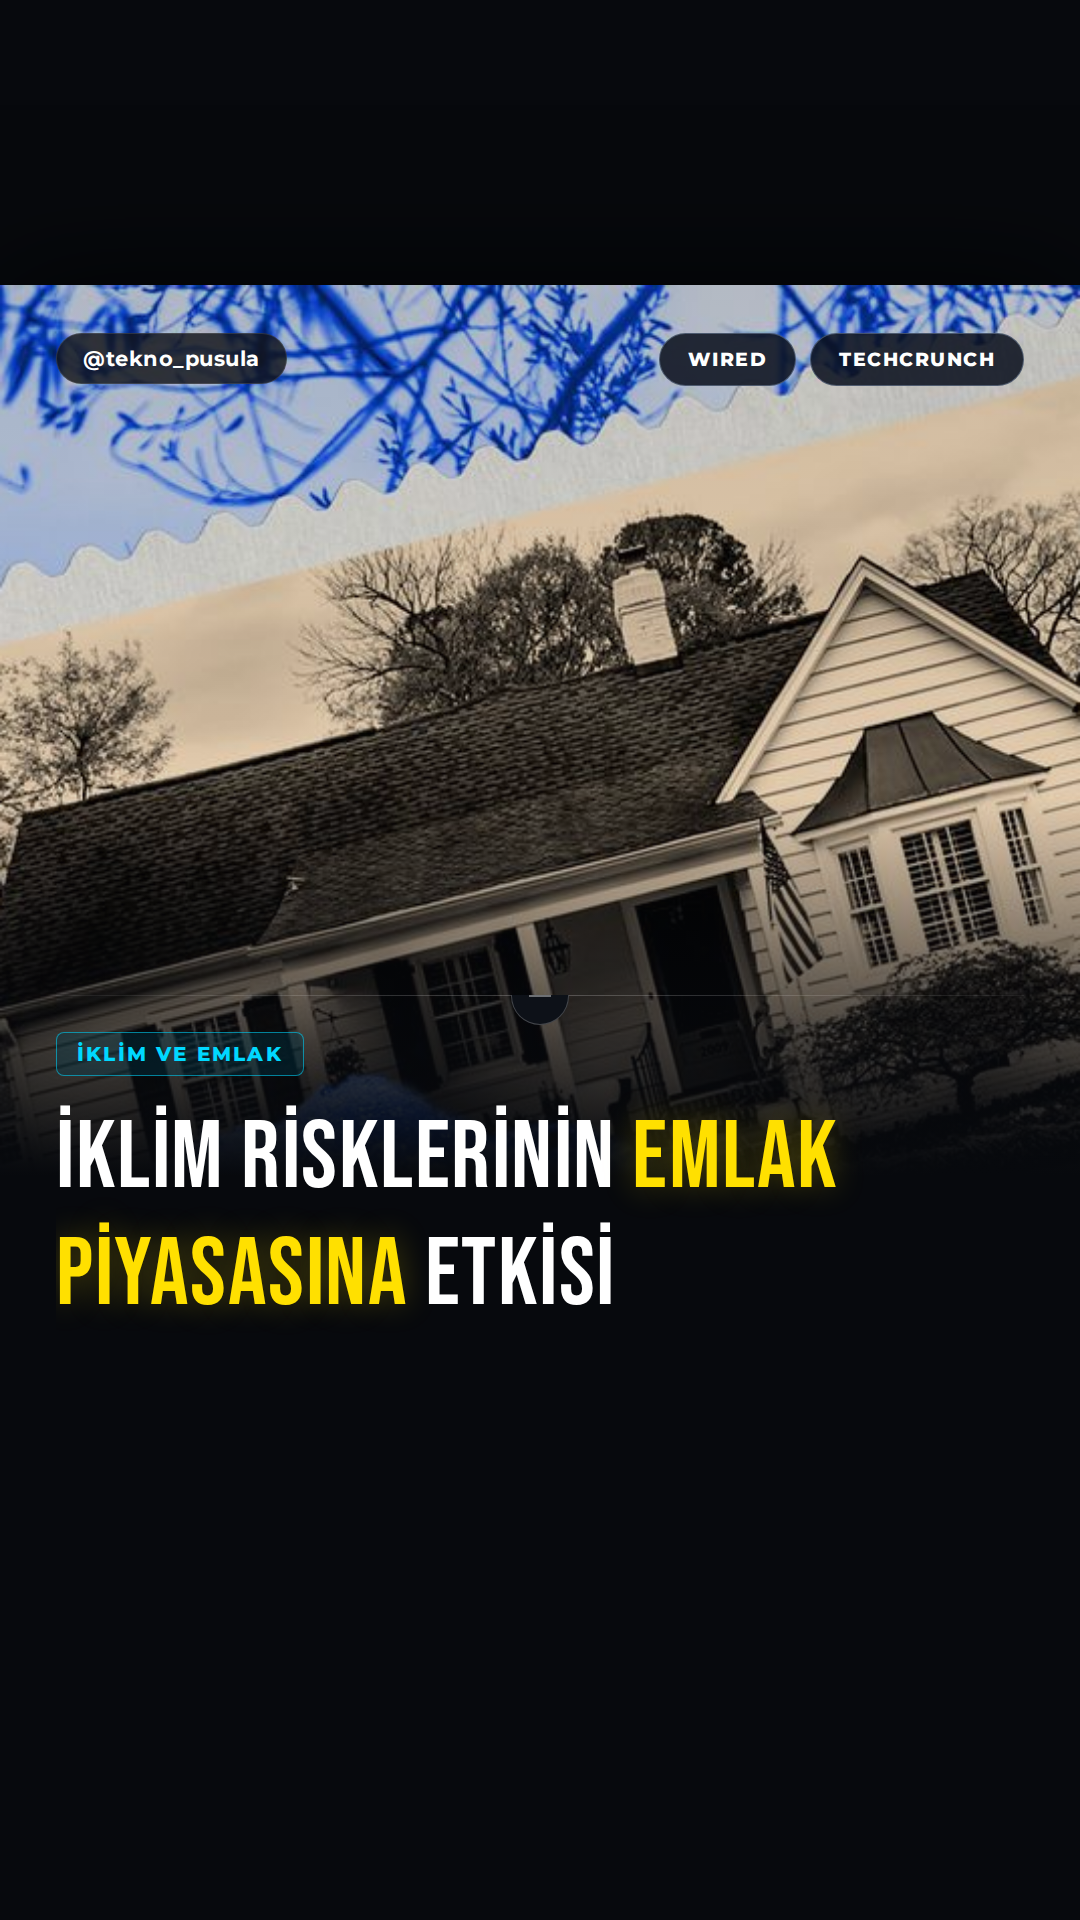
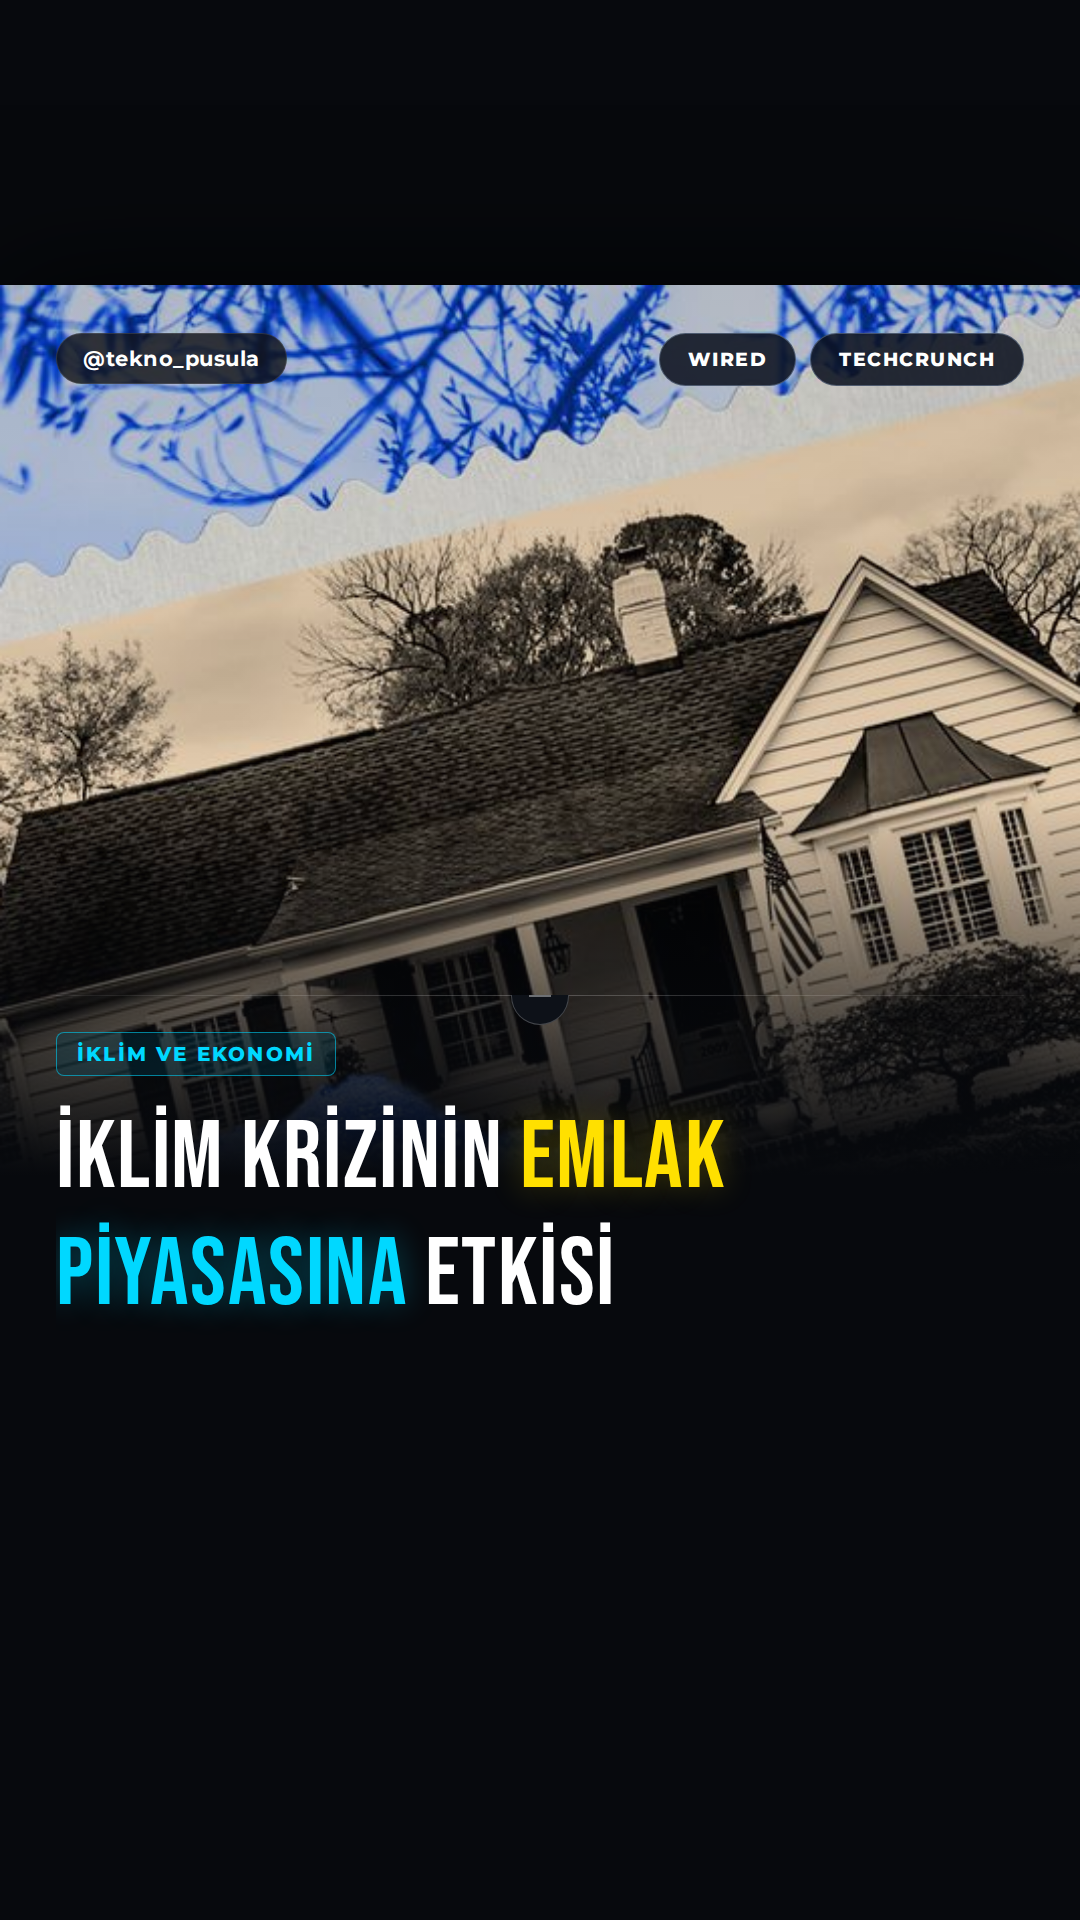
🤖 post: 2026-11-07 09:00 – The American Dream Wasn’t Built for Climate Change

Changed region(s): [[0.0306, 0.5312, 0.7944, 0.6875]]

diff --git a/output/2026-11-07/01-0900-the-american-dream-wasn-t-built-for-climate-chan/verification.md b/output/2026-11-07/01-0900-the-american-dream-wasn-t-built-for-climate-chan/verification.md
@@ -3,20 +3,20 @@
 **Haber:** The American Dream Wasn’t Built for Climate Change
 **Canonical URL:** https://www.wired.com/story/the-american-dream-wasnt-built-for-climate-change/
 **Kaynaklar:** Wired, TechCrunch, MIT Technology Review, Google Blog
-**Kontrol zamanı:** 2026-11-07T13:33:01+03:00
+**Kontrol zamanı:** 2026-11-07T13:37:14+03:00
 **Sonuç:** ✅ YAYINLANABİLİR
 
 ---
 
 ## İddia Bazlı Sonuçlar
 
-### 1. First Street, in a report called Property Prices in Peril, projected last year that climate risks could knock nearly 1.5 trillion dollars off the value of American homes by 2055.
+### 1. First Street, in a report called Property Prices in Peril, projected that climate risks could knock nearly $1.5 trillion off the value of American homes by 2055.
 - **Karar:** ✅ `supported`
 - **Kanıtlar:**
   - [https://www.wired.com/story/the-american-dream-wasnt-built-for-climate-change/](https://www.wired.com/story/the-american-dream-wasnt-built-for-climate-change/)
     > In a report called “Property Prices in Peril,” the firm First Street projected last year that climate risks could knock nearly $1.5 trillion off the value of American homes by 2055.
 
-### 2. According to polling for Grist from Data for Progress, 58 percent of likely U.S. voters believe that climate change will hinder their ability to achieve the American Dream over the next 20 years.
+### 2. Polling for Grist from Data for Progress shows that 58 percent of likely U.S. voters believe climate change will hinder their ability to achieve the American Dream over the next 20 years.
 - **Karar:** ✅ `supported`
 - **Kanıtlar:**
   - [https://www.wired.com/story/the-american-dream-wasnt-built-for-climate-change/](https://www.wired.com/story/the-american-dream-wasnt-built-for-climate-change/)
@@ -28,31 +28,31 @@
   - [https://www.wired.com/story/the-american-dream-wasnt-built-for-climate-change/](https://www.wired.com/story/the-american-dream-wasnt-built-for-climate-change/)
     > Those promises were shattered when almost 14 inches of rain fell on Asheville over three days in September 2024.
 
-### 4. In western North Carolina, more than 74,000 homes were damaged and only about 4 percent had flood insurance, resulting in 9.5 billion dollars in uninsured residential property losses.
+### 4. In western North Carolina, more than 74,000 homes were damaged and only about 4 percent had flood insurance, resulting in $9.5 billion in uninsured residential property losses.
 - **Karar:** ✅ `supported`
 - **Kanıtlar:**
   - [https://www.wired.com/story/the-american-dream-wasnt-built-for-climate-change/](https://www.wired.com/story/the-american-dream-wasnt-built-for-climate-change/)
     > In western North Carolina, more than 74,000 homes were damaged and only about 4 percent had flood insurance, resulting in $9.5 billion in uninsured residential property losses.
 
-### 5. Asheville's average home price shrunk 5 percent over the past year, while the national average increased 1.2 percent.
+### 5. Asheville’s average home price shrunk 5 percent over the past year, while the national average increased 1.2 percent.
 - **Karar:** ✅ `supported`
 - **Kanıtlar:**
   - [https://www.wired.com/story/the-american-dream-wasnt-built-for-climate-change/](https://www.wired.com/story/the-american-dream-wasnt-built-for-climate-change/)
     > Asheville’s average home price shrunk 5 percent over the past year, while the national average increased 1.2 percent.
 
-### 6. Since 2020, property insurance costs have ballooned almost 80 percent, with the average single-family mortgage holder now paying 209 dollars per month.
-- **Karar:** ✅ `supported`
-- **Kanıtlar:**
-  - [https://www.wired.com/story/the-american-dream-wasnt-built-for-climate-change/](https://www.wired.com/story/the-american-dream-wasnt-built-for-climate-change/)
-    > Since 2020, property insurance costs have ballooned almost 80 percent, with the average single-family mortgage holder now paying $209 per month.
-
-### 7. Homes within FEMA's high-risk flood zones sell for 2.8 percent less, on average, than what they would otherwise sell for, according to a 2023 study published in Nature Climate Change.
+### 6. Homes within FEMA’s high-risk flood zones sell for 2.8 percent less, on average, than what they would otherwise sell for, according to a 2023 study published in Nature Climate Change.
 - **Karar:** ✅ `supported`
 - **Kanıtlar:**
   - [https://www.wired.com/story/the-american-dream-wasnt-built-for-climate-change/](https://www.wired.com/story/the-american-dream-wasnt-built-for-climate-change/)
     > Homes within FEMA’s high-risk flood zones sell for 2.8 percent less, on average, than what they would otherwise sell for, according to a 2023 study published in the journal Nature Climate Change.
 
-### 8. A poll from Ipsos last year showed that 46 percent of baby boomers associate homeownership with the American Dream but only 13 percent of Gen Zers do.
+### 7. Since 2020, property insurance costs have ballooned almost 80 percent, with the average single-family mortgage holder now paying $209 per month.
+- **Karar:** ✅ `supported`
+- **Kanıtlar:**
+  - [https://www.wired.com/story/the-american-dream-wasnt-built-for-climate-change/](https://www.wired.com/story/the-american-dream-wasnt-built-for-climate-change/)
+    > Since 2020, property insurance costs have ballooned almost 80 percent, with the average single-family mortgage holder now paying $209 per month.
+
+### 8. An Ipsos poll showed that 46 percent of baby boomers associate homeownership with the American Dream compared to only 13 percent of Gen Zers.
 - **Karar:** ⚠ `not_found`
 - **Kanıt:** yok
 
@@ -63,13 +63,13 @@
 | İddia | 1. Tur | 2. Tur | Nihai |
 |-------|--------|--------|-------|
 | First Street, in a report called Property Prices in Peril, p | supported | supported | supported |
-| According to polling for Grist from Data for Progress, 58 pe | supported | supported | supported |
+| Polling for Grist from Data for Progress shows that 58 perce | supported | supported | supported |
 | Almost 14 inches of rain fell on Asheville over three days i | supported | supported | supported |
 | In western North Carolina, more than 74,000 homes were damag | supported | supported | supported |
-| Asheville's average home price shrunk 5 percent over the pas | supported | supported | supported |
+| Asheville’s average home price shrunk 5 percent over the pas | supported | supported | supported |
+| Homes within FEMA’s high-risk flood zones sell for 2.8 perce | supported | supported | supported |
 | Since 2020, property insurance costs have ballooned almost 8 | supported | supported | supported |
-| Homes within FEMA's high-risk flood zones sell for 2.8 perce | supported | supported | supported |
-| A poll from Ipsos last year showed that 46 percent of baby b | not_found | not_found | not_found |
+| An Ipsos poll showed that 46 percent of baby boomers associa | not_found | not_found | not_found |
 
 ## Kaynak Metinleri
 

diff --git a/output/2026-11-07/01-0900-the-american-dream-wasn-t-built-for-climate-chan/captions.md b/output/2026-11-07/01-0900-the-american-dream-wasn-t-built-for-climate-chan/captions.md
@@ -2,44 +2,36 @@
 
 ## INSTAGRAM
 
-İklim krizinin emlak piyasasını nasıl sarstığını biliyor musunuz? Artan afetler, yükselen sigorta maliyetleri ve milyarlarca dolarlık riskler kapıda. Konut değerleri bu değişimden nasıl etkileniyor? Kaynak: Wired
+İklim krizi emlak piyasasını nasıl vurdu? 1.5 trilyon dolarlık devasa risk kapıda. First Street raporuna göre iklim riskleri, 2055'e kadar Amerikan evlerinin değerinden milyarlarca dolar silebilir. Konut sigortası maliyetleri 2020'den bu yana yüzde 80 artarken, Helene Kasırgası gibi felaketler sigortasız kayıpları gözler önüne serdi. İklim krizinin emlak ve sigorta piyasalarındaki bu etkileri hakkında ne düşünüyorsunuz? Kaynak: Wired, TechCrunch
 
-#iklimkrizi #emlak #gayrimenkul #teknopusula #wired #techcrunch #iklim #konut #yatirim #climatechange
+#İklimKrizi #Emlak #Ekonomi #Sigorta #Wired #TechCrunch #ClimateChange #RealEstate #Finance
 
 ## TIKTOK
 
-İklim krizi emlak piyasasını bitiriyor mu? 1.5 trilyon dolarlık risk kapıda! Kaynak: Wired
+İklim krizi evlerinizi tehlikeye atıyor! 2055'e kadar 1.5 trilyon dolarlık değer kaybı bekleniyor. Sigortalar yüzde 80 arttı. Kaynak: Wired, TechCrunch
 
-#iklimkrizi #emlak #teknopusula #wired
+#İklimKrizi #Emlak #Haber #Ekonomi #Wired
 
 ## X
 
-İklim riskleri emlak piyasasını nasıl etkiliyor? 2055'e kadar ABD'de 1.5 trilyon dolarlık konut değeri risk altında. Sigorta maliyetleri %80 arttı. Kaynak: Wired
+İklim krizinin emlak piyasasına etkisi büyüyor: 2055'e kadar Amerikan evlerinden 1.5 trilyon dolar silinebilir. Konut sigortası maliyetleri 2020'den bu yana %80 arttı. Kaynak: Wired, TechCrunch
 
-#iklimkrizi #emlak
+#İklimKrizi #Emlak
 
 ## THREADS
 
-İklim Krizinin Emlak Piyasasına Etkisi
+İklim krizinin emlak piyasasına etkileri derinleşiyor. First Street raporuna göre 2055'e kadar ev değerlerinden 1.5 trilyon dolar silinebilir. Konut sigortası maliyetleri ise 2020'den beri %80 arttı. 💭 Bu durum gelecekteki yatırım kararlarınızı nasıl etkiler? Kaynak: Wired, TechCrunch
 
-İklim değişikliği sadece doğayı değil, konut değerlerini ve sigorta maliyetlerini de doğrudan vuruyor. 2055'e kadar milyarlarca dolarlık risk bekleniyor.
-
-Sizce bu durum gelecekte ev sahibi olmayı imkansız mı kılacak? 💭
-
-Kaynak: Wired
-
-#iklimkrizi
+#İklimKrizi
 
 ## LINKEDIN
 
-İklim değişikliği ve emlak piyasası arasındaki ilişki, yatırımcılar ve sektör profesyonelleri için göz ardı edilemeyecek bir gerçek haline geldi. Artan doğal afetler, yükselen konut sigortası maliyetleri ve risk altındaki gayrimenkuller geleceğin pazarını yeniden şekillendiriyor. Sektörün bu yeni döneme nasıl adapte olacağını değerlendirmek büyük önem taşıyor.
+İklim değişikliği artık sadece bir çevre sorunu değil, küresel ekonomiyi ve gayrimenkul sektörünü doğrudan şekillendiren finansal bir risk. First Street'in raporuna göre, iklim riskleri 2055 yılına kadar ABD'deki konut değerlerinden 1.5 trilyon dolar silebilir. Öte yandan, 2020'den bu yana konut sigortası maliyetlerindeki yüzde 80'lik artış, risk yönetiminin önemini bir kez daha kanıtlıyor. Sektör profesyonelleri için bu veriler, uzun vadeli stratejilerde iklim risklerinin kaçınılmaz bir faktör olduğunu gösteriyor. Kaynak: Wired, TechCrunch
 
-Kaynak: Wired, TechCrunch
-
-#gayrimenkul #iklimkrizi #yatirim #teknopusula #ekonomi
+#Gayrimenkul #Ekonomi #İklimDeğişikliği #Yatırım #Finans
 
 ## FACEBOOK
 
-İklim krizinin konut değerleri ve sigorta maliyetleri üzerindeki etkileri büyüyor. 2020'den bu yana konut sigortası maliyetleri yüzde 80 artış gösterdi. İklim riskleri gelecekte emlak yatırımlarını nasıl şekillendirecek? Kaynak: Wired
+İklim krizinin emlak piyasasına etkileri radarımızda! 2055 yılına kadar iklim riskleri yüzünden Amerikan evlerinin değerinden yaklaşık 1.5 trilyon dolar silinebileceği öngörülüyor. 2020'den bu yana konut sigortası maliyetleri yüzde 80 artarken, felaketler sigortasız kayıpların büyüklüğünü gösteriyor. İklim krizinin emlak ve sigorta piyasalarındaki bu etkileri hakkında ne düşünüyorsunuz? Kaynak: Wired, TechCrunch
 
-#iklimkrizi #emlak #teknopusula #wired #ekonomi
+#İklimKrizi #Emlak #Ekonomi #Sigorta #Wired
